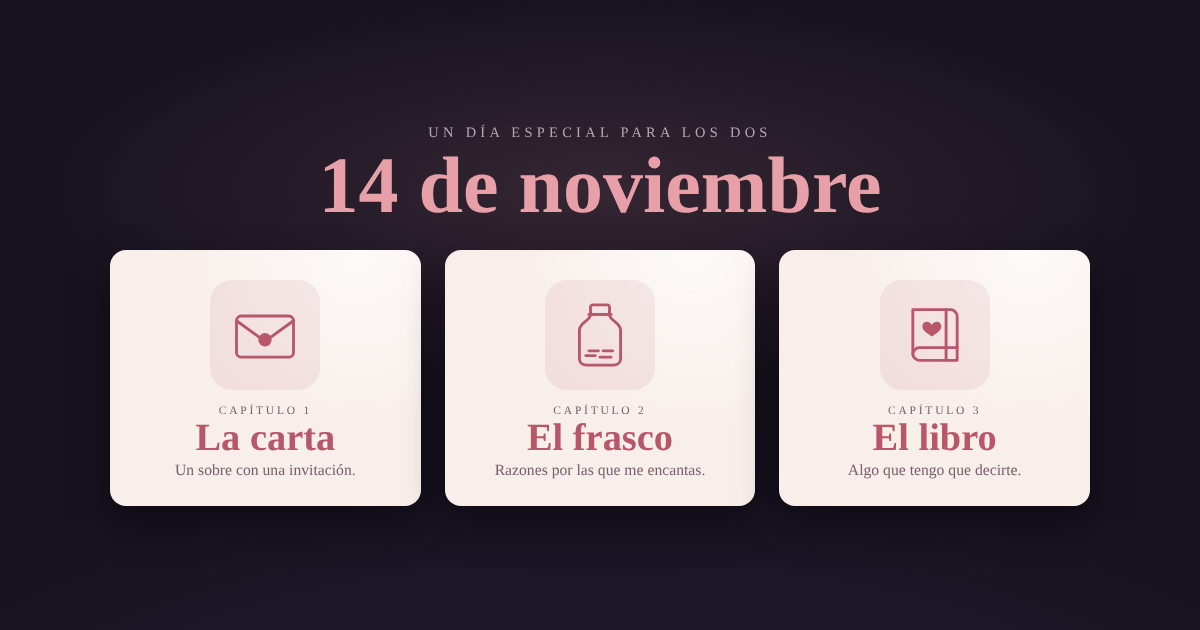
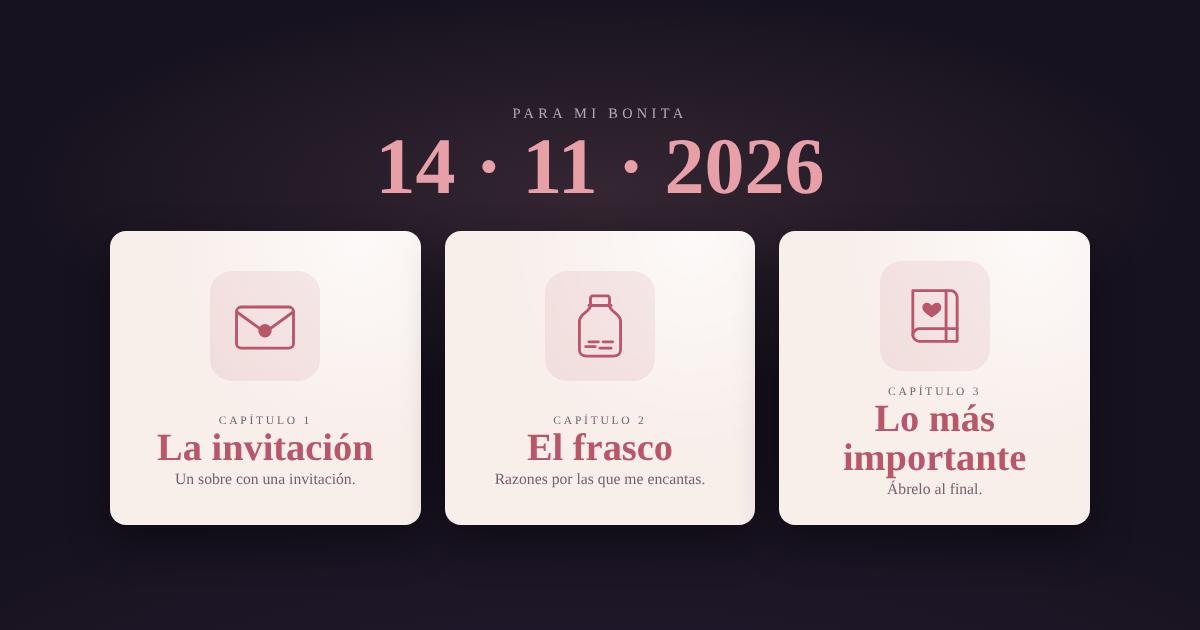
Inicio: fecha 14 · 11 · 2026 y nombres de los capítulos
Claude-Session: https://claude.ai/code/session_01WqeuTAJcrPEzumkahj6Rcc

diff --git a/index.html b/index.html
@@ -3,17 +3,17 @@
 <head>
 <meta charset="utf-8">
 <meta name="viewport" content="width=device-width, initial-scale=1, viewport-fit=cover">
-<title>14 de noviembre</title>
-<meta name="description" content="Un día especial para los dos.">
+<title>14 · 11 · 2026</title>
+<meta name="description" content="Para mi bonita.">
 <meta name="theme-color" content="#17121f">
 <meta name="apple-mobile-web-app-capable" content="yes">
 <meta name="mobile-web-app-capable" content="yes">
 <meta name="apple-mobile-web-app-status-bar-style" content="black-translucent">
-<meta name="apple-mobile-web-app-title" content="14 de noviembre">
+<meta name="apple-mobile-web-app-title" content="14 · 11 · 2026">
 <link rel="apple-touch-icon" href="icono.png">
 <link rel="icon" type="image/png" href="icono.png">
-<meta property="og:title" content="14 de noviembre · Un día especial para los dos">
-<meta property="og:description" content="La carta, el frasco y el libro.">
+<meta property="og:title" content="Para mi bonita · 14 · 11 · 2026">
+<meta property="og:description" content="La invitación, el frasco y lo más importante.">
 <meta property="og:type" content="website">
 <meta property="og:image" content="https://fabio2305.github.io/Invitacion/vista-previa.png">
 <meta property="og:image:width" content="1200">
@@ -109,8 +109,8 @@ h1 { margin: 0; font-family: var(--font-hand); font-weight: 700; font-size: clam
 <body>
 <div id="app">
   <header>
-    <span class="k">Un día especial para los dos</span>
-    <h1>14 de noviembre</h1>
+    <span class="k">Para mi bonita</span>
+    <h1>14 · 11 · 2026</h1>
   </header>
 
   <ol class="cards">
@@ -119,7 +119,7 @@ h1 { margin: 0; font-family: var(--font-hand); font-weight: 700; font-size: clam
         <span class="pic" aria-hidden="true">
           <svg viewBox="0 0 48 48"><rect x="6" y="12" width="36" height="26" rx="3"/><path d="M6 15 L24 28 L42 15"/><circle class="f" cx="24" cy="27" r="4.2"/></svg>
         </span>
-        <span class="txt"><span class="num">Capítulo 1</span><span class="name">La carta</span><span class="desc">Un sobre con una invitación.</span></span>
+        <span class="txt"><span class="num">Capítulo 1</span><span class="name">La invitación</span><span class="desc">Un sobre con una invitación.</span></span>
         <span class="go" aria-hidden="true">›</span>
       </a>
     </li>
@@ -137,7 +137,7 @@ h1 { margin: 0; font-family: var(--font-hand); font-weight: 700; font-size: clam
         <span class="pic" aria-hidden="true">
           <svg viewBox="0 0 48 48"><path d="M10 8 H34 C36 8 38 10 38 12 V40 H14 C12 40 10 38 10 36 Z"/><path d="M10 36 C10 34 12 32 14 32 H38"/><path d="M31 8 V40"/><path class="f" d="M22 25 C19.5 23 16 21.5 16 18.5 C16 16.8 17.3 15.6 18.8 15.6 C20.1 15.6 21.1 16.4 22 17.6 C22.9 16.4 23.9 15.6 25.2 15.6 C26.7 15.6 28 16.8 28 18.5 C28 21.5 24.5 23 22 25 Z"/></svg>
         </span>
-        <span class="txt"><span class="num">Capítulo 3</span><span class="name">El libro</span><span class="desc">Algo que tengo que decirte.</span></span>
+        <span class="txt"><span class="num">Capítulo 3</span><span class="name">Lo más importante</span><span class="desc">Ábrelo al final.</span></span>
         <span class="go" aria-hidden="true">›</span>
       </a>
     </li>
